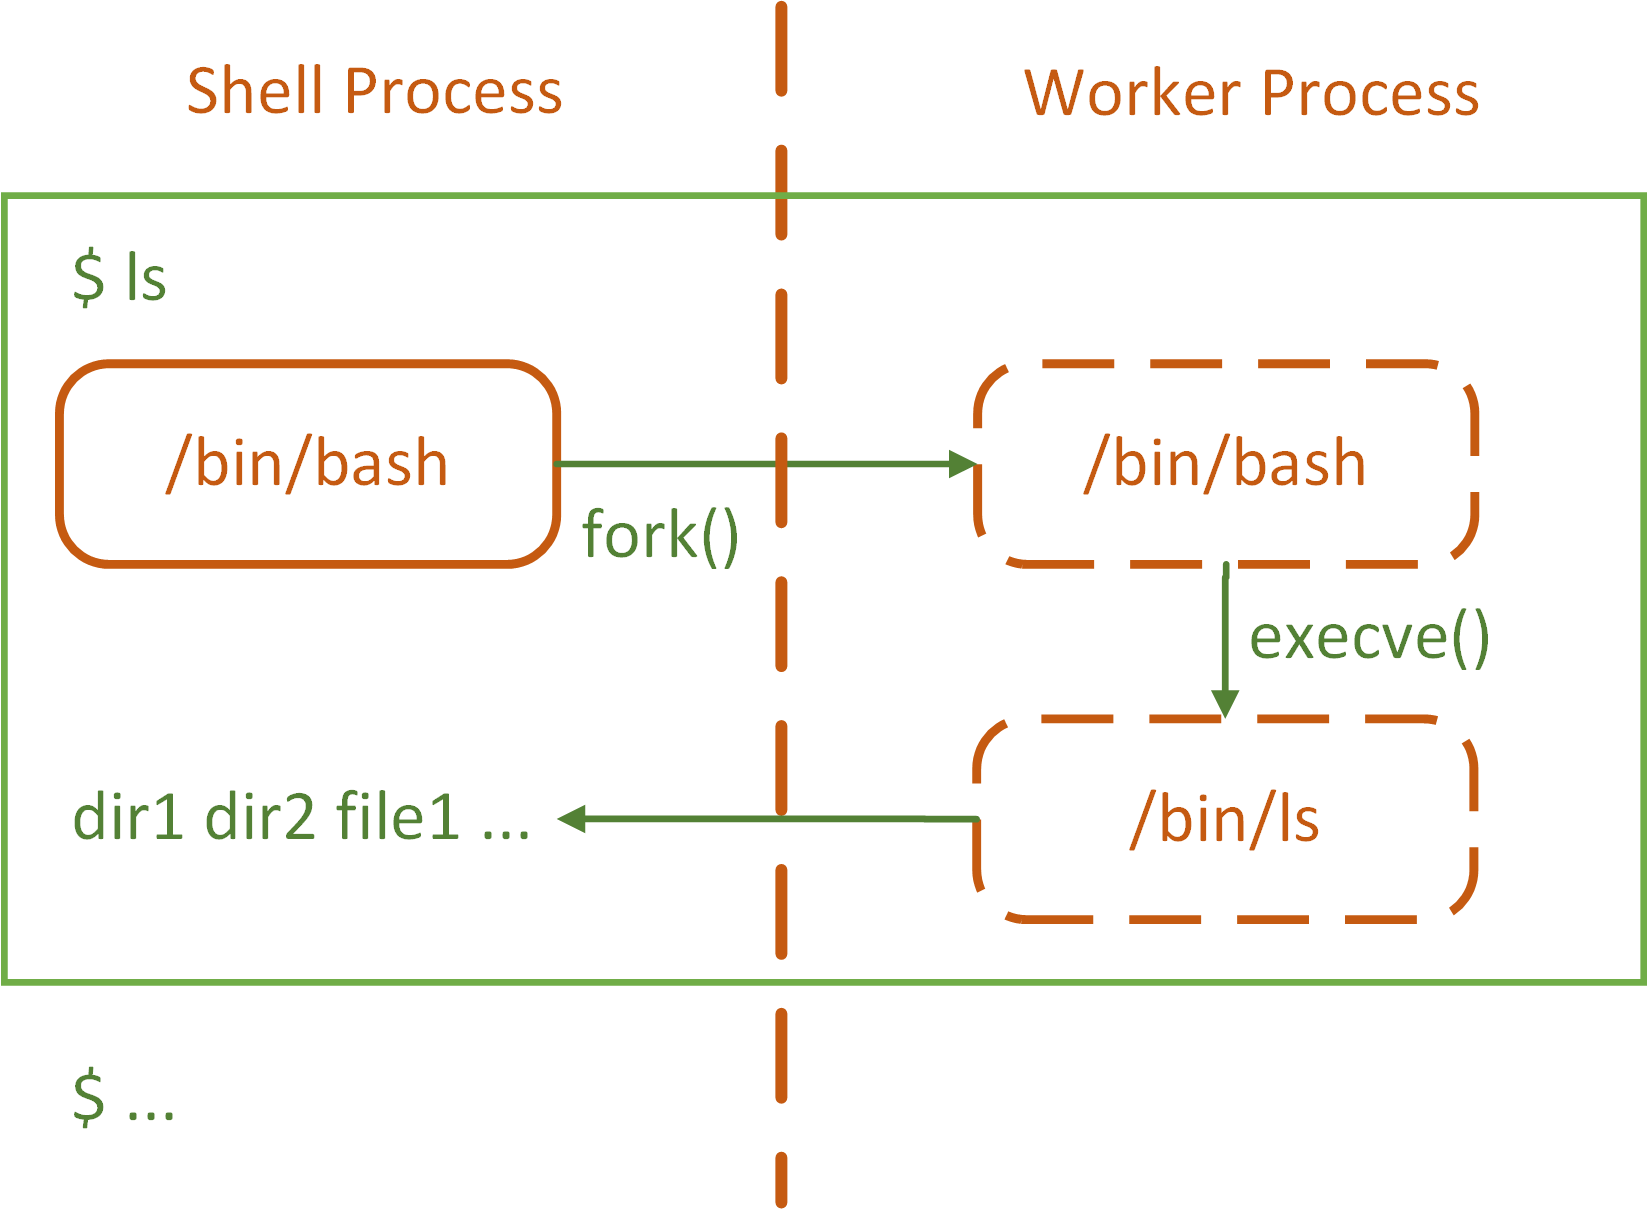
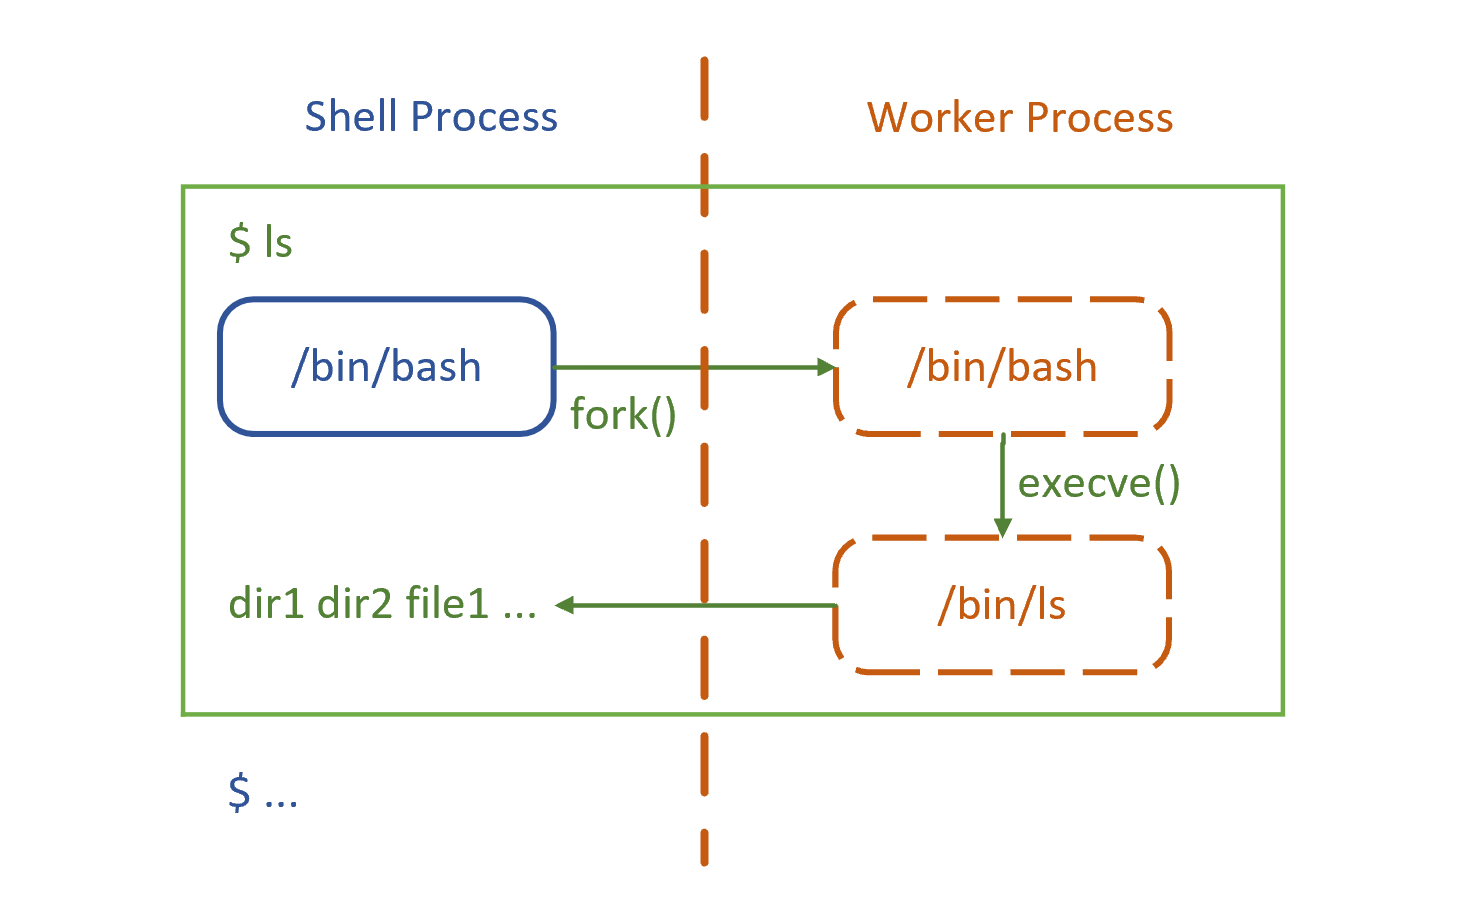
Remove unused images

Changed region(s): [[0.0, 0.0, 1.0, 1.0], [0.0307, 0.8807, 0.0613, 0.9414], [0.1534, 0.8503, 0.184, 0.8807]]

diff --git a/group-1-kernel-signature-verification/chapter-1-binary-execution-procedure.md b/group-1-kernel-signature-verification/chapter-1-binary-execution-procedure.md
@@ -6,7 +6,7 @@
 
 如果 `execve` 的执行一切正常，那么该进程原有程序的运行环境都会被新进程完全替换，因此 `execve` 永远不会返回。对于使用 shell 的用户来说，希望能够在运行完一条命令后再次回到 shell 中继续输入下一条命令。为了避免 shell 进程在调用 `execve` 之后被新程序覆盖，在 terminal 的实现中，通常会通过 `fork` 系统调用，先复制出一个当前进程的副本，然后在副本进程中调用 `execve`。执行结束后，回到 shell 的原进程中，使得用户可以继续执行下一个程序。
 
-![Shell &#x6267;&#x884C;&#x7A0B;&#x5E8F;&#x7684;&#x5927;&#x81F4;&#x6D41;&#x7A0B;](../.gitbook/assets/shell%20%282%29.png)
+![Shell &#x6267;&#x884C;&#x7A0B;&#x5E8F;&#x7684;&#x5927;&#x81F4;&#x6D41;&#x7A0B;](../.gitbook/assets/shell.png)
 
 ### 内核如何执行不同格式的二进制文件
 
